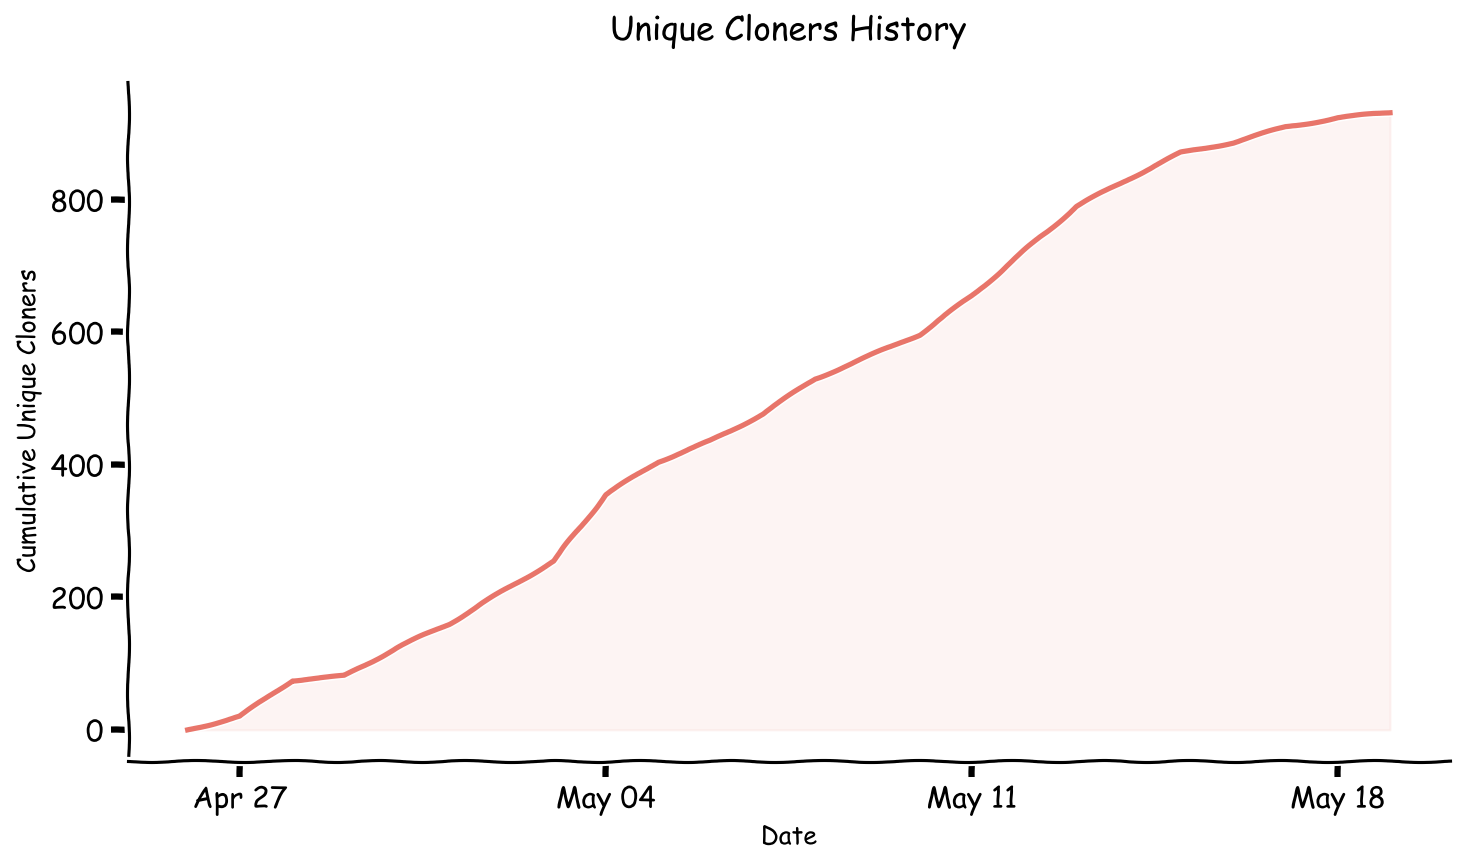
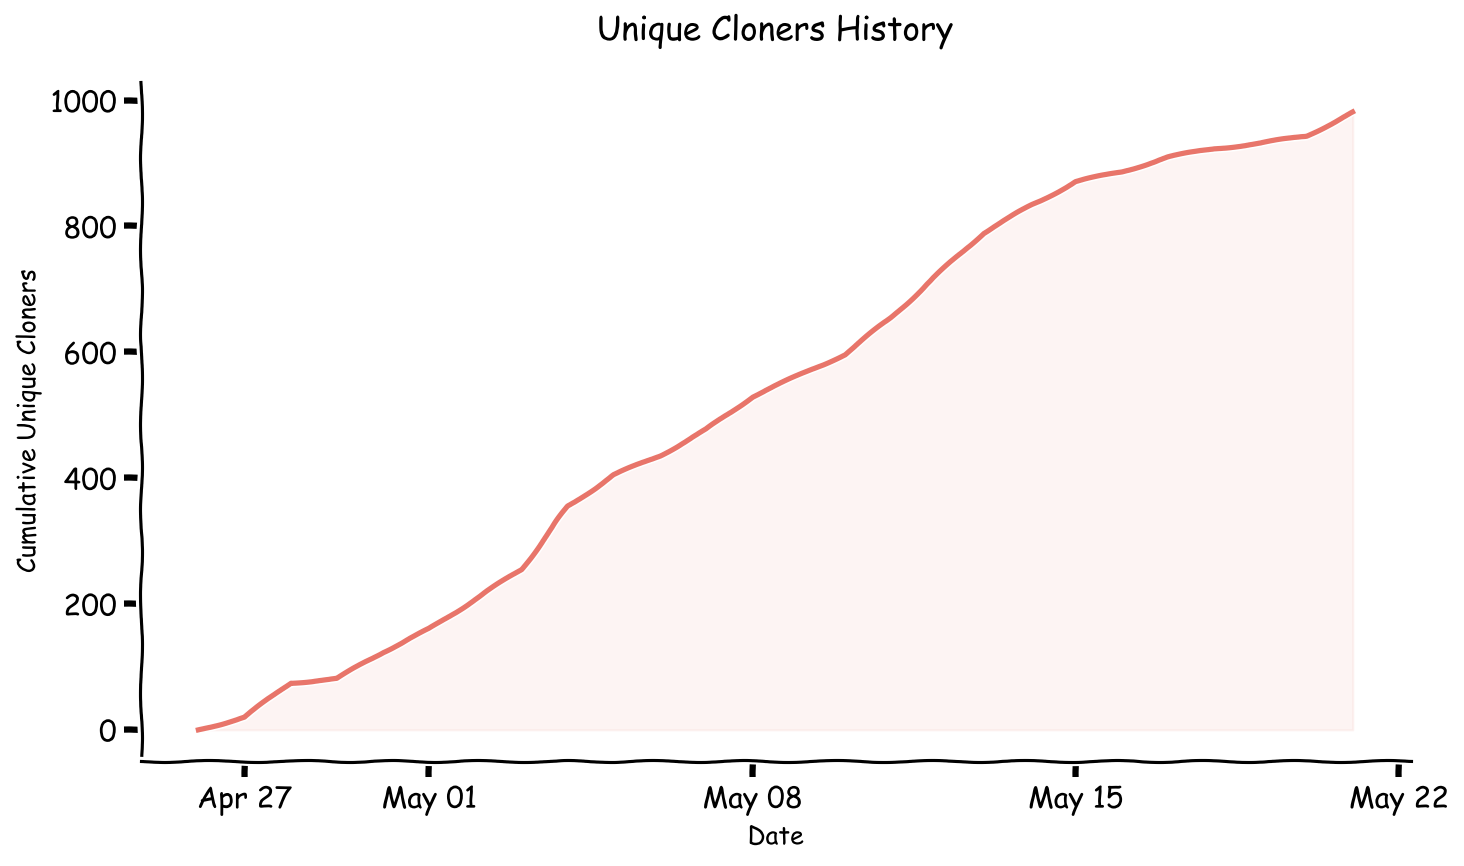
chore: update plot (#28)

diff --git a/README.md b/README.md
@@ -24,6 +24,10 @@
   <a href="https://github.com/ifixai-ai/diagnostic/issues?q=is%3Aopen+label%3A%22good+first+issue%22"><img src="https://img.shields.io/github/issues/ifixai-ai/diagnostic/good%20first%20issue?label=good%20first%20issues&color=7057ff" alt="good first issues" /></a>
 </p>
 
+<p align="center">
+  <img src="docs/assets/unique_cloners_chart.png" alt="UniqueClones" width="750" />
+</p>
+
 ---
 
 iFixAi runs up to 32 inspections against any AI agent and reports where its
@@ -532,12 +536,6 @@ ruff check ifixai
 bandit -r ifixai -ll
 ifixai validate
 ```
-
-# Unique Report Clones
-
-<p align="center">
-  <img src="docs/assets/unique_cloners_chart.png" alt="UniqueClones" width="750" />
-</p>
 
 ## Contact
 